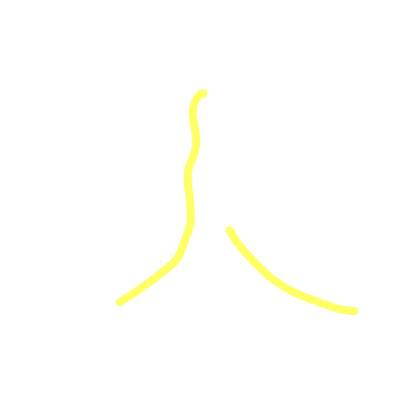
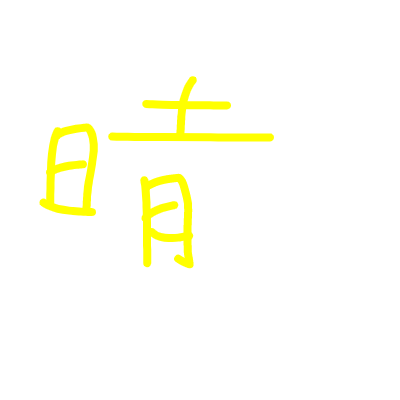
img gray

Changed region(s): [[0.27, 0.18, 0.69, 0.78], [0.09, 0.3, 0.27, 0.54], [0.54, 0.57, 0.9, 0.81]]

diff --git a/reactjs/src/modules/home/index.jsx b/reactjs/src/modules/home/index.jsx
@@ -12,7 +12,7 @@ import axios from 'axios';
 
 function HomeScreen() {
   const canvasRef = useRef(null);
-  const canvas = '#ffff66';
+  const canvas = '#FFFF00';
   const brush = 4;
   let dataFinal;
   const [isShown, setIsShown] = useState(false);

diff --git a/backendWithFlask/modelProcess.py b/backendWithFlask/modelProcess.py
@@ -5,12 +5,13 @@ from werkzeug.utils import secure_filename
 import os
 import base64
 def readAndProcessImg(path):
-    img = cv.imread(path,0)
+    img = cv.imread(path)
+    img = cv.cvtColor(img,cv.COLOR_BGR2GRAY)
     img = skimage.transform.resize(img, (48, 48))
-    for i in range(48):
-        for j in range(48):
-            if img[i,j] >= 0.9:
-                img[i,j] = 0
+    # for i in range(48):
+    #     for j in range(48):
+    #         if img[i,j] >= 0.9:
+    #             img[i,j] = 0
     return img
 def sortPredict(result):
     arr_predict = []
